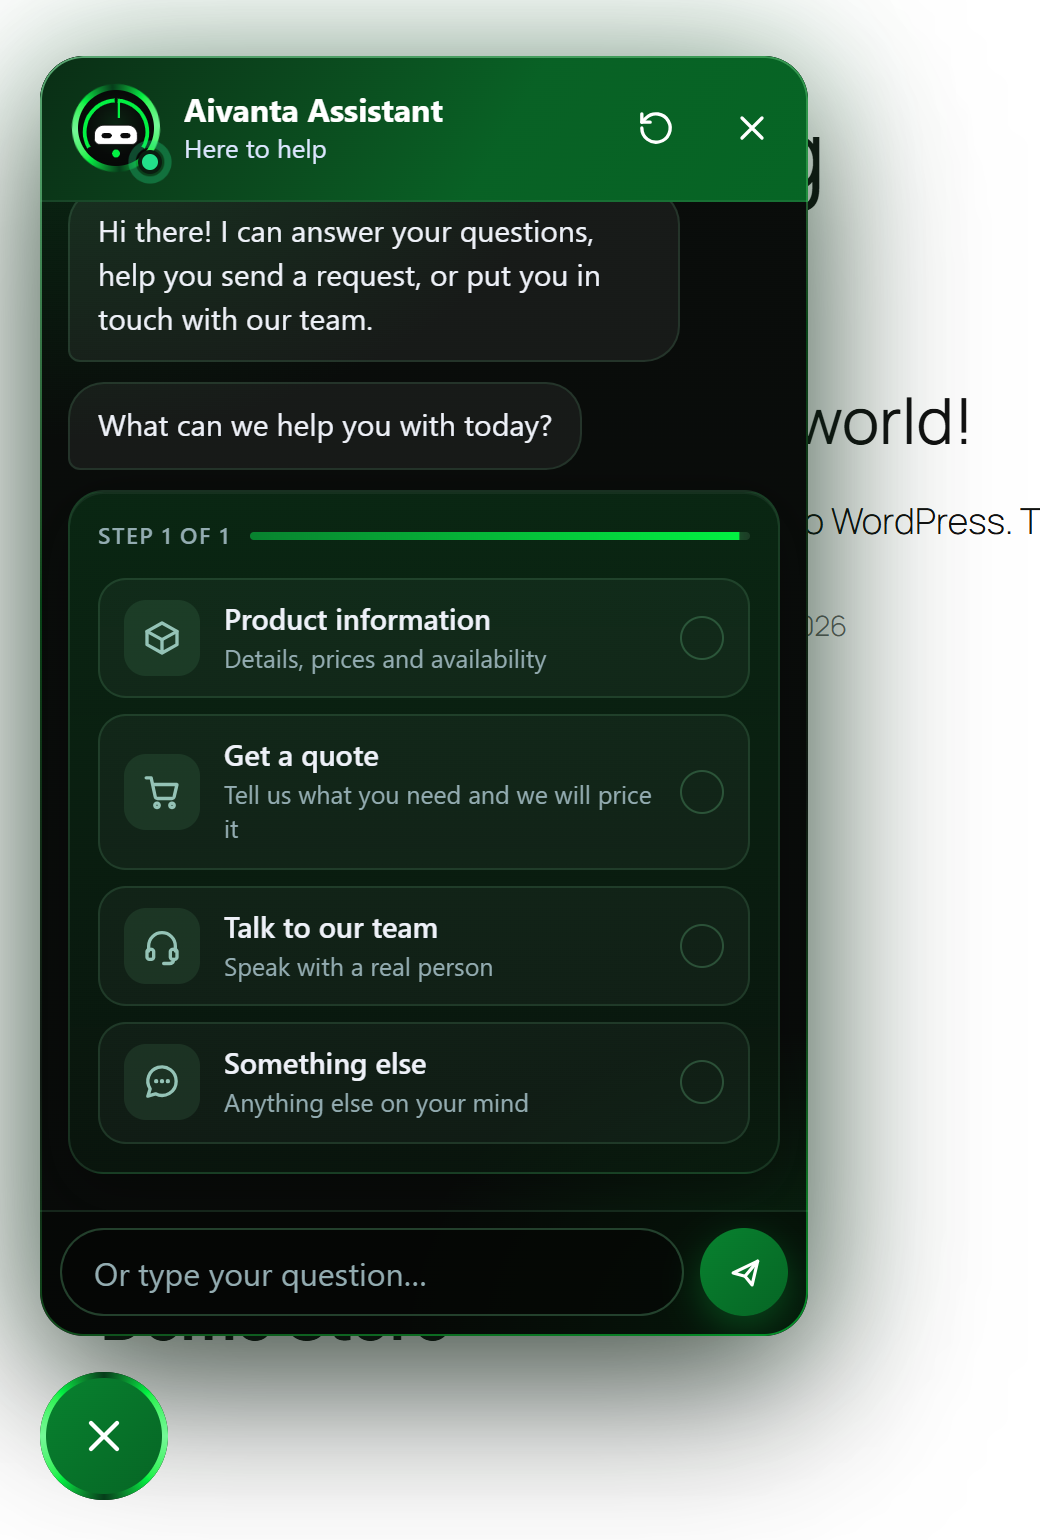
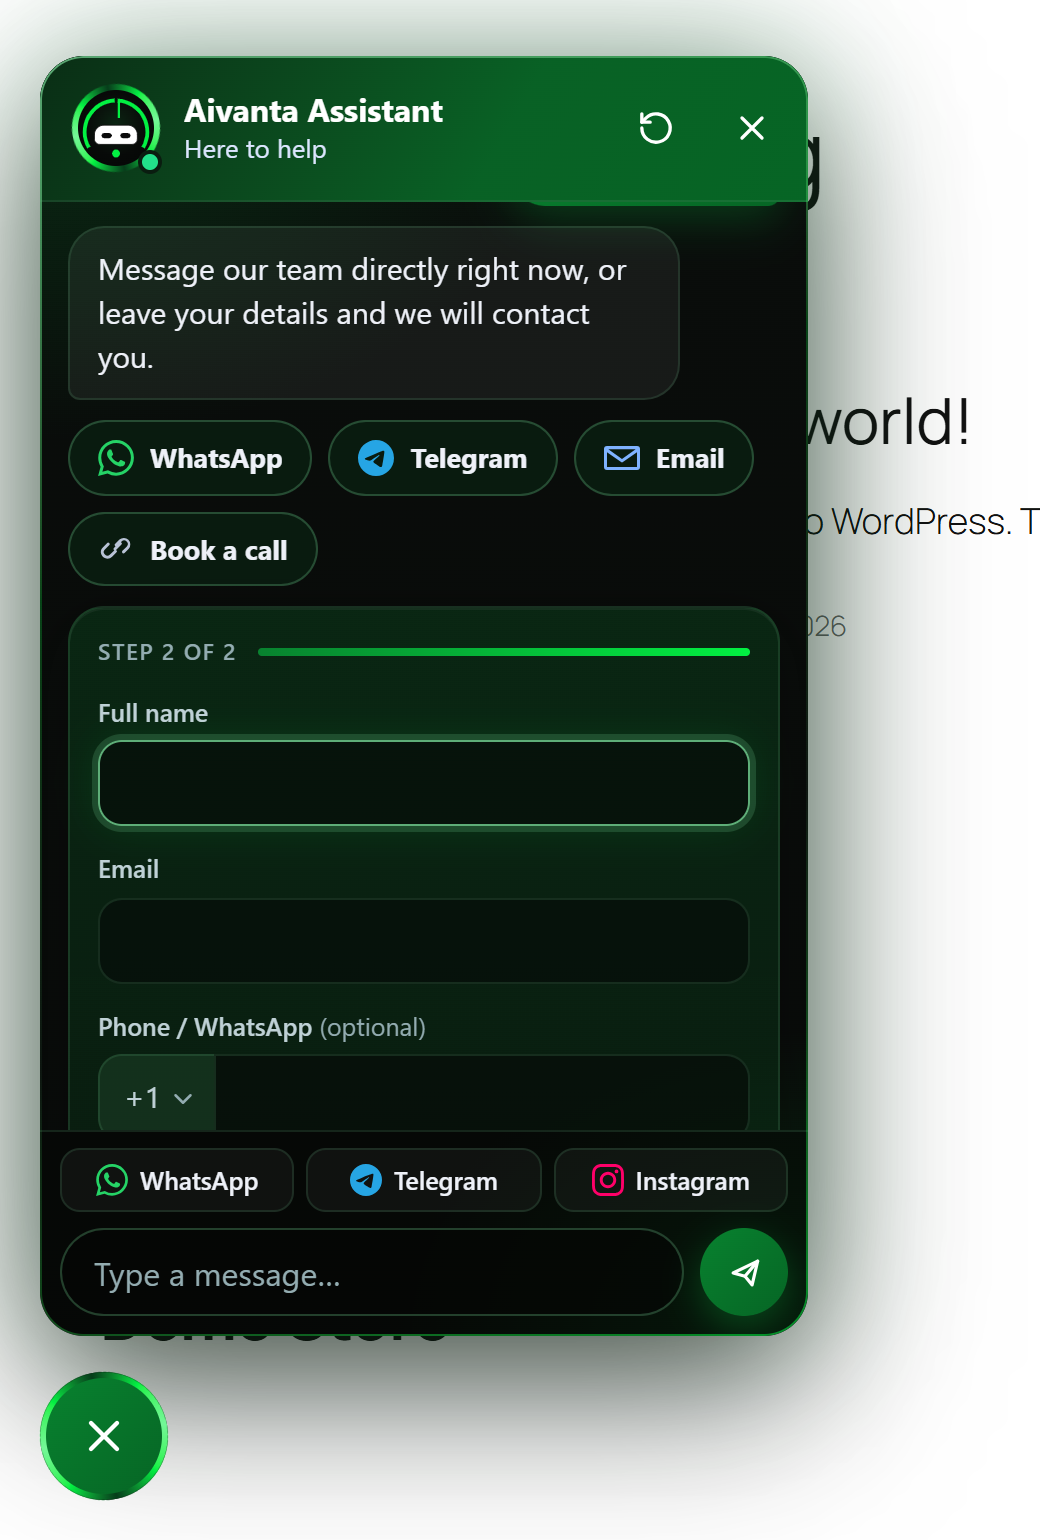
Free 1.4.0 and Pro 1.0.0: Free vs Pro, contact channels, Persian and Arabic

diff --git a/README.md b/README.md
@@ -5,12 +5,12 @@
 <h1 align="center">Aivanta Chat</h1>
 
 <p align="center">
-  A chat assistant for WordPress that answers visitors, guides them through your own forms,<br>
-  and hands every request to your team by email and WhatsApp.
+  A chat assistant for WordPress that guides visitors through your own forms<br>
+  and hands every request to your team: inbox, WhatsApp, Telegram and more.
 </p>
 
 <p align="center">
-  <b>Version 1.3.1</b> · WordPress 5.3+ · PHP 7.2+ · English and Arabic
+  <b>Free 1.4.0</b> · <b>Pro add-on 1.0.0</b> · WordPress 5.3+ · PHP 7.2+ · English, Persian, Arabic
 </p>
 
 ---
@@ -19,22 +19,61 @@
 > The source code is private. If you'd like Aivanta Chat on your site, see [Get it](#get-it).
 
 <p align="center">
-  <img src="media/chat-desktop.png" width="380" alt="The chat window open on a website">
+  <img src="media/chat-desktop.png" width="380" alt="The chat window with contact buttons and a bottom bar">
   &nbsp;&nbsp;
   <img src="media/phone-open.png" width="260" alt="The chat on a phone">
 </p>
 
 ## What it does
 
-- **Guided conversations.** Visitors pick what they need, such as product information, a quote, or a word with your team. The chat then walks them through the steps you defined.
-- **A form builder, not a script.** Build any flow from choices, typed answers, product pickers, quantities and contact details. Reorder, duplicate or switch forms off without touching code.
-- **Answers on its own.** Ready answers with synonyms, typo tolerance and Arabic support. An optional AI mode (Claude or OpenAI, using your own key) covers questions the ready answers don't.
-- **Nothing gets lost.** Every request is saved in WordPress first, then emailed, and can open in WhatsApp with all the details filled in.
+- **Guided conversations.** Visitors pick what they need (product information, a quote, a word with your team) and the chat walks them through the steps you defined.
+- **A form builder, not a script.** Build any flow from choices, typed answers, form fields, quantities and contact details. Reorder, duplicate or switch forms off without touching code.
+- **Every channel you use.** WhatsApp, Telegram, Messenger, Instagram, LinkedIn, Discord, GitHub, email or a custom link, each with its own icon.
+- **Nothing gets lost.** Every request is saved in WordPress first, then emailed, and WhatsApp or email can open with the whole request already written.
 - **Built for real sites.** The chat renders in its own isolated layer, so theme CSS can't break it and it can't break the theme. On phones it sits under your menu until it's opened, then above everything.
+
+## Free and Pro
+
+The free plugin is complete on its own. Pro is an add-on that installs beside it.
+
+| | Free | Pro |
+|---|:---:|:---:|
+| Unlimited forms and requests | ✓ | ✓ |
+| Contact buttons and bottom bar with brand icons | ✓ | ✓ |
+| Requests saved in WordPress and emailed | ✓ | ✓ |
+| Colour themes, button shapes, phone settings, Custom CSS | ✓ | ✓ |
+| Persian, Arabic and every WordPress language | ✓ | ✓ |
+| AI answers with your own Claude or OpenAI key | | ✓ |
+| Ready answers with synonyms and typo tolerance | | ✓ |
+| Products & categories with pictures | | ✓ |
+| Five button animations | | ✓ |
+| No "Powered by" link (opt-in on Free) | | ✓ |
+
+<img src="media/plans.png" alt="The License page with the Free and Pro plans">
+
+Pro is unlocked with a license key that is checked on your own server: no account, no tracking, nothing sent anywhere. If a subscription ends, Pro switches off and Free keeps working, with everything you set up kept for renewal.
+
+## Contact channels
+
+<img src="media/contact-buttons.png" alt="Choosing which contact buttons the chat offers">
+
+Fill in the channels you use, then choose which appear as **contact buttons** (when a visitor wants a person, after a request, and when the chat has no answer) and which three sit in the **bottom bar**.
+
+<img src="media/channels.png" alt="Channel addresses, each with its brand icon">
+
+## Your language
+
+<p align="center">
+  <img src="media/persian-chat.png" width="320" alt="The chat in Persian, right to left">
+</p>
+
+<img src="media/persian-dashboard.png" alt="The dashboard in Persian, right to left">
+
+The plugin follows the language set in WordPress. Persian and Arabic ship complete, with right-to-left layout and the Vazirmatn font, and the plugin can be translated into any other language. Arabic-speaking visitors on a site in another language get Arabic replies.
 
 ## The dashboard
 
-<img src="media/overview.png" alt="Overview: requests per day, top products, and a setup checklist">
+<img src="media/overview.png" alt="Overview: requests per day, top forms, and a setup checklist">
 
 An overview with requests per day, top forms, products and countries, and a checklist that shows what still needs setting up.
 
@@ -44,11 +83,11 @@ An overview with requests per day, top forms, products and countries, and a chec
 
 Every change shows instantly on a light page, a dark page and a phone, drawn with the same stylesheet visitors get.
 
-### Five button animations, three shapes
+### Shapes and animations
 
 <img src="media/button-templates.png" alt="Shape and animation picker cards, each with a live demo">
 
-Spinning border, Floating, Ripple rings, Comet and Hello wave, or none. The button can be a circle with an animated border, a plain circle, or just your image on its own. Size, image fit, border thickness and colours all have sliders.
+Three shapes on Free. Pro adds five animations: Spinning border, Floating, Ripple rings, Comet and Hello wave.
 
 ### Forms
 
@@ -58,16 +97,15 @@ Spinning border, Floating, Ripple rings, Comet and Hello wave, or none. The butt
 
 <img src="media/custom-css.png" alt="The Custom CSS box and its list of selectors with Insert buttons">
 
-For anyone who wants to go further: a CSS box that only affects the chat, and a guide to every selector with one-click working examples.
-
 ## Security and privacy
 
 - Every post from the chat carries a short-lived token signed with the site's own keys. Request tokens are single-use.
 - Posts from other websites, oversized bodies and non-JSON bodies are refused before anything is read.
 - Limits per visitor and daily ceilings for the whole site, for requests and for AI answers.
 - Answers are checked against the saved form on the server. Prices and totals are never taken from the browser.
-- The AI key is encrypted at rest and never sent to browsers.
+- The AI key (Pro) is encrypted at rest and never sent to browsers.
 - IP addresses are used only for rate limits and never stored. WordPress's Export and Erase Personal Data tools cover chat requests.
+- The free plugin passes WordPress's official Plugin Check with no errors.
 
 ## Progress
 

diff --git a/CHANGELOG.md b/CHANGELOG.md
@@ -1,5 +1,14 @@
 # Changelog
 
+## Free 1.4.0 and Pro 1.0.0: channels, languages, Free and Pro
+
+- Contact channels: WhatsApp, Telegram, Facebook, Instagram, LinkedIn, Discord, GitHub, email and a custom link, each with its brand icon. Choose the contact buttons and up to three for the bottom bar.
+- Free and Pro: AI answers, ready answers, products and categories and button animations move to the new Aivanta Chat Pro add-on, unlocked by a license key checked offline.
+- Persian and Arabic translations with right-to-left layout and the Vazirmatn font; every other WordPress language through translation.
+- Default settings follow a change of site language.
+- An optional "Powered by" link, off until the site owner switches it on.
+- The free plugin passes WordPress's Plugin Check with no errors.
+
 ## 1.3.1: Aivanta Chat
 
 - New name and logo, in the dashboard menu, page headers and License page.
